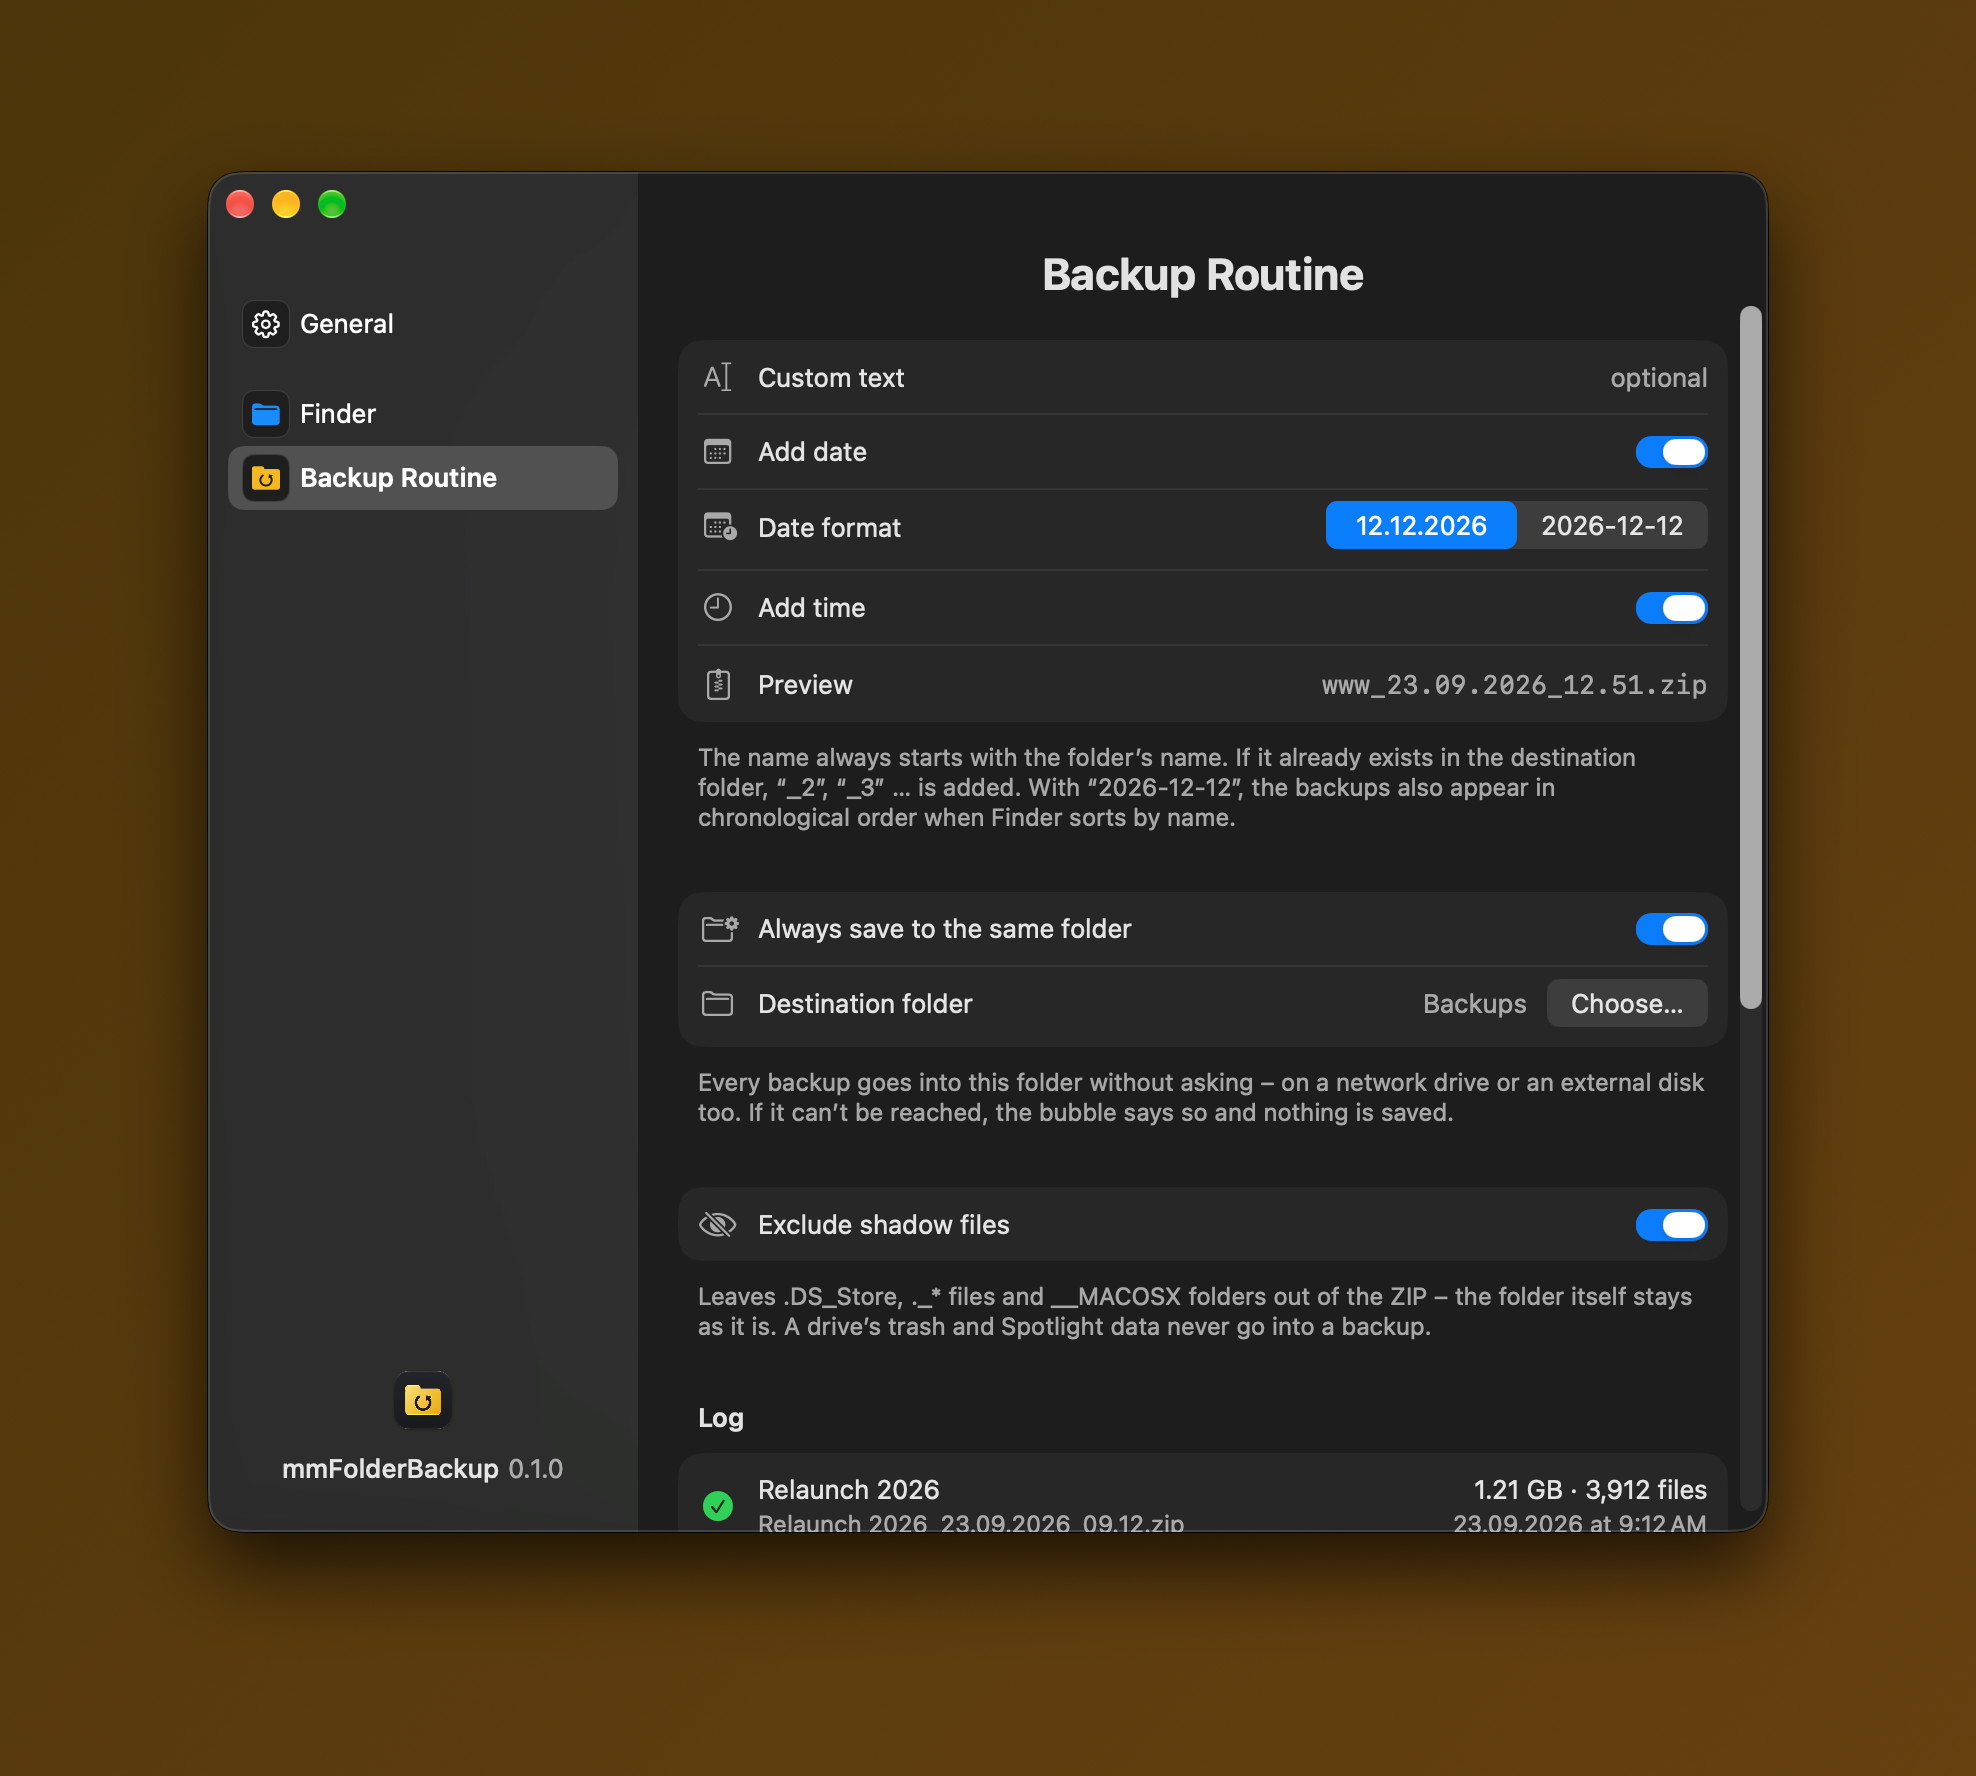
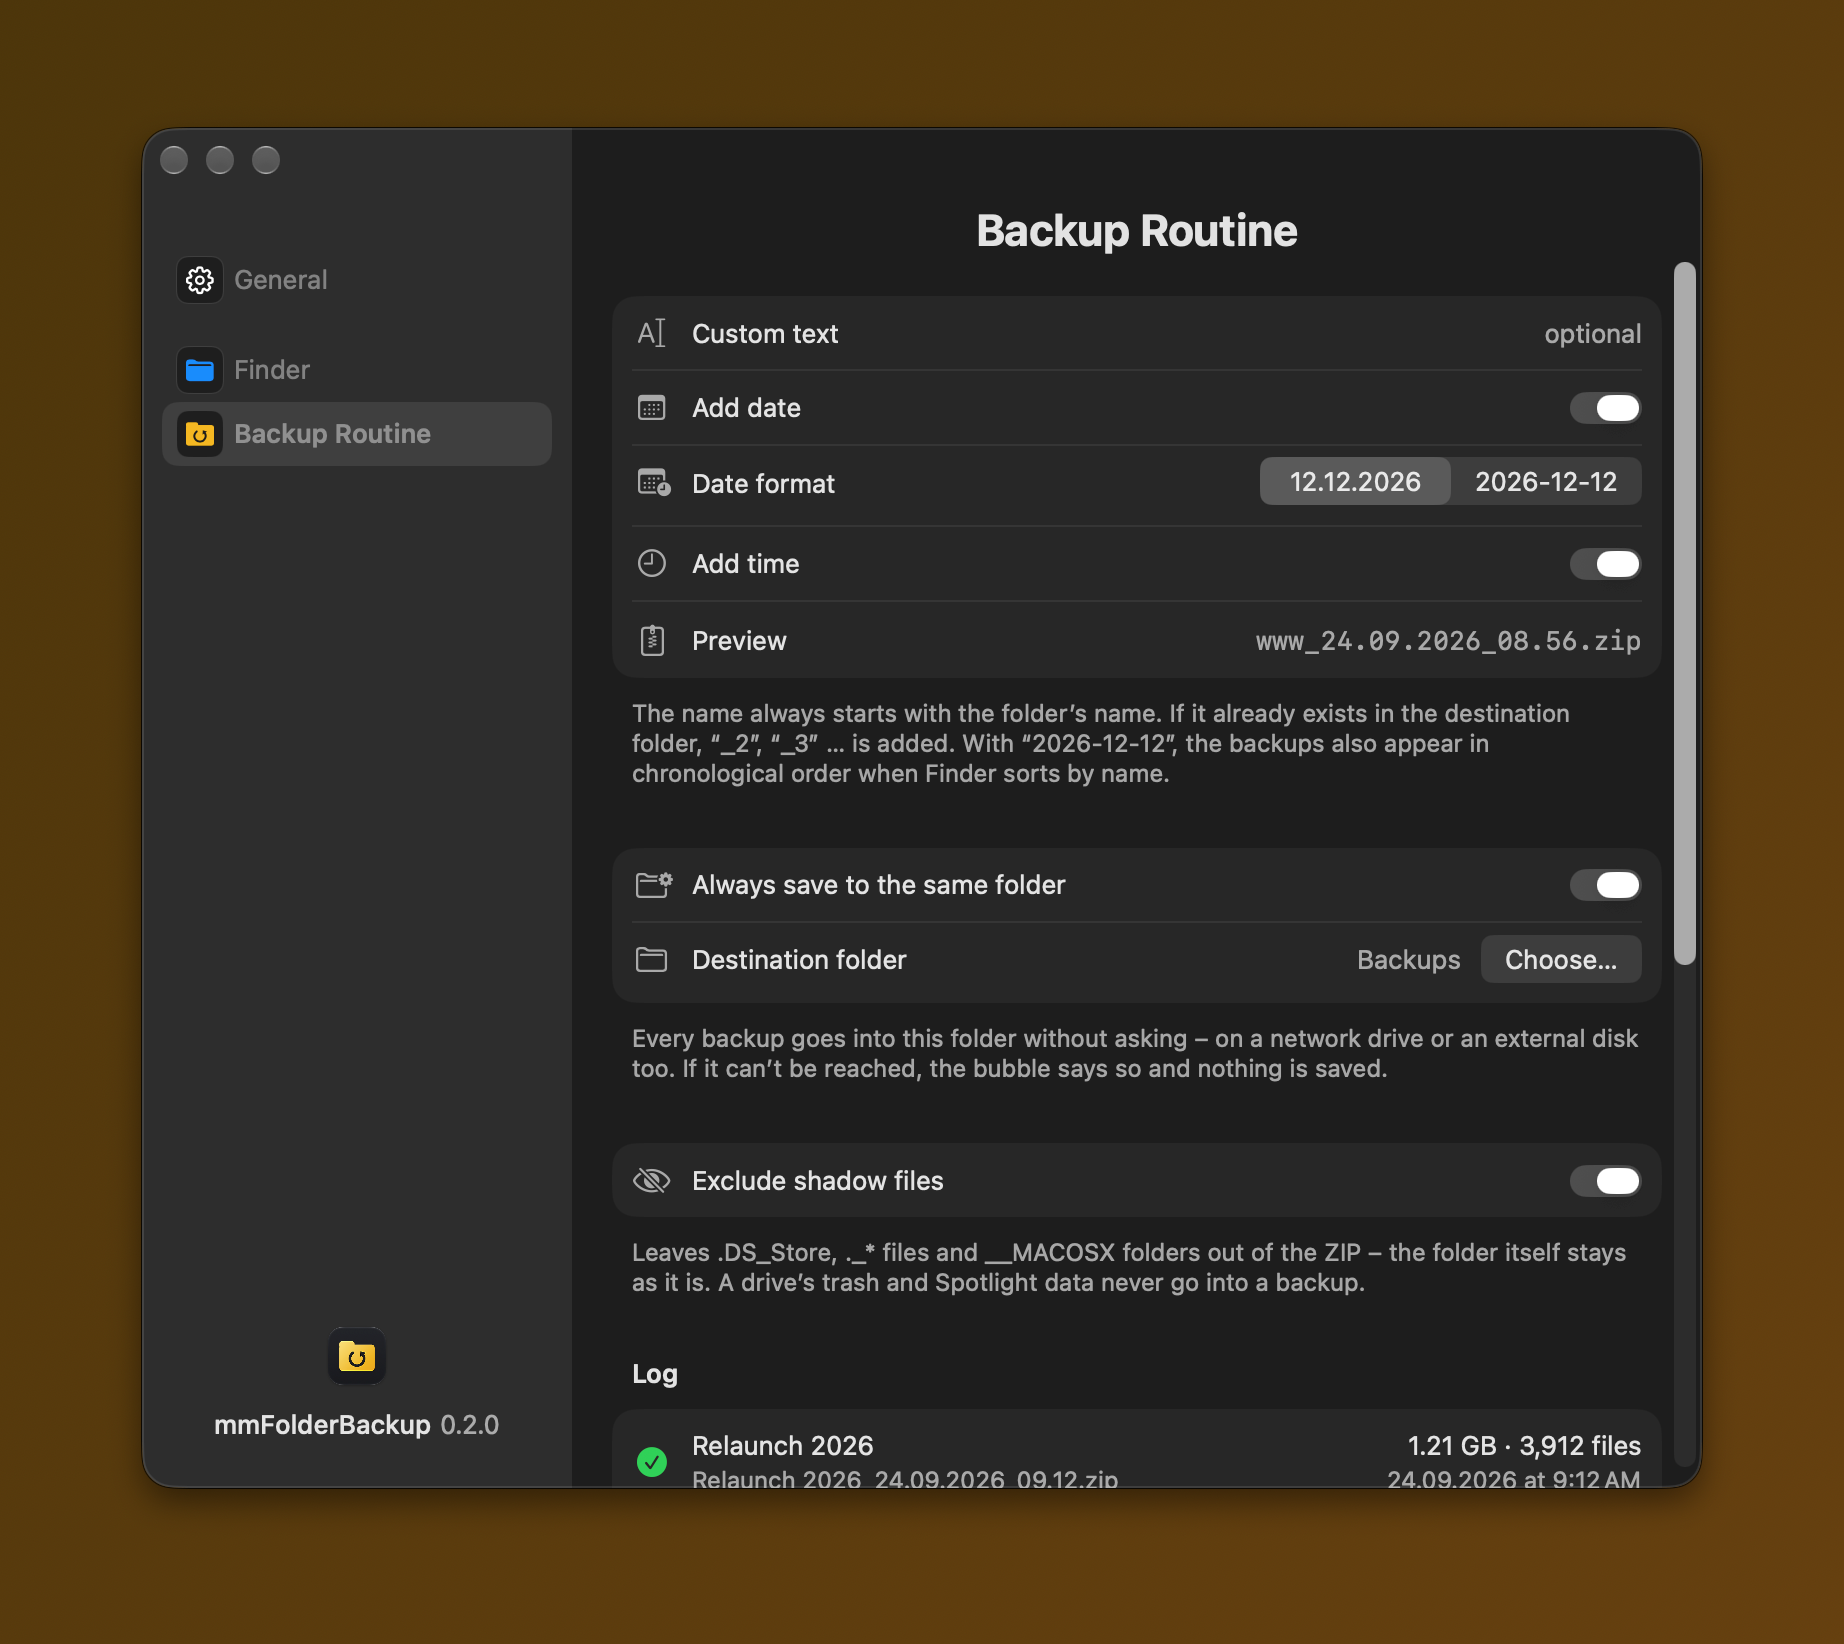
0.2.0: signiert und notarisiert, Umstieg von 0.1.0, Bilder aktualisiert

Changed region(s): [[0.0618, 0.062, 0.9273, 0.9307], [0.34, 0.1861, 0.4637, 0.3102]]

diff --git a/README.md b/README.md
@@ -24,6 +24,7 @@
 - **Fortschritt in der Menüleiste:** Eine Blase unter dem Symbol zeigt Prozent und Dateien, danach Name und Grösse des ZIP. Ist das Symbol ausgeblendet, erscheint sie oben rechts unter der Menüleiste.
 - **Rechtsklick-Menü:** „Backup erzeugen“ für markierte Ordner oder den Fensterhintergrund; mehrere Ordner werden nacheinander gesichert.
 - **Protokoll und Fehlerprotokoll:** Jedes Backup mit Ordner, ZIP, Grösse und Dauer; Dateien, die sich nicht lesen liessen, stehen im Fehlerprotokoll.
+- **Signiert und notarisiert** mit einem Apple-Entwicklerzertifikat.
 - **Menüleisten-App:** Symbol wählbar und ausblendbar, Start bei der Anmeldung, Erscheinungsbild Automatisch/Hell/Dunkel, automatische Updates nach Bestätigung, **Deutsch, Englisch, Französisch, Italienisch und Spanisch**, Liquid Glass ab macOS 26.
 
 <p align="center">
@@ -69,7 +70,9 @@
 
 1. Unter [Releases](../../releases/latest) die Datei `mmFolderBackup-<Version>.dmg` herunterladen.
 2. DMG öffnen und mmFolderBackup in den Ordner „Programme“ ziehen.
-3. Beim ersten Start fragt macOS nach einer Freigabe: Systemeinstellungen › Datenschutz & Sicherheit › „Trotzdem öffnen“.
+3. mmFolderBackup starten. Die App ist signiert und von Apple beglaubigt (notarisiert) und startet ohne Rückfrage. Wie der Backup-Knopf in den Finder kommt, zeigt die Seite „Finder“ in den Einstellungen und `Anleitung.txt` in der DMG.
+
+> **Umstieg von 0.1.0:** Version 0.2.0 hat eine neue interne Kennung, deshalb kann die App sich nicht selbst darauf aktualisieren. Einmal die DMG laden und mmFolderBackup im Ordner „Programme“ ersetzen. Die Einstellungen werden übernommen; Finder-Erweiterung, Knopf in der Symbolleiste und „Beim Anmelden starten“ einmal neu einrichten.
 
 Danach aktualisiert sich mmFolderBackup selbst: Die App sucht täglich nach neuen Versionen und installiert sie nach Bestätigung (Einstellungen › Allgemein › „Jetzt suchen …“).
 
@@ -103,6 +106,7 @@ mmFolderBackup saves any folder as a ZIP with one click in Finder – with date 
 - **Progress in the menu bar:** a bubble below the icon shows percent and files, then the ZIP’s name and size. With the icon hidden, it appears at the top right below the menu bar.
 - **Context menu:** “Create Backup” for selected folders or the window background; several folders are backed up one after the other.
 - **Log and error log:** every backup with folder, ZIP, size and duration; files that couldn’t be read are listed in the error log.
+- **Signed and notarized** with an Apple developer certificate.
 - **Menu bar app:** choose or hide the icon, launch at login, appearance Automatic/Light/Dark, automatic updates once you confirm, **English, German, French, Italian and Spanish**, Liquid Glass on macOS 26 and later.
 
 <p align="center">
@@ -146,7 +150,9 @@ mmFolderBackup saves any folder as a ZIP with one click in Finder – with date 
 
 1. Download `mmFolderBackup-<version>.dmg` from [Releases](../../releases/latest).
 2. Open the disk image and drag mmFolderBackup to the Applications folder.
-3. On first launch macOS asks for your approval: System Settings › Privacy & Security › “Open Anyway”.
+3. Launch mmFolderBackup. The app is signed and notarized by Apple, so it opens without any warning. The “Finder” page of the settings and `Anleitung.txt` inside the disk image show how the Backup button gets into Finder.
+
+> **Coming from 0.1.0:** version 0.2.0 carries a new internal identifier, so the app cannot update itself to it. Download the disk image once and replace mmFolderBackup in your Applications folder. Your settings are carried over; set up the Finder extension, the toolbar button and “Launch at login” once more.
 
 After that mmFolderBackup updates itself: it checks for new versions daily and installs them once you confirm (Settings › General › “Check Now…”).
 
